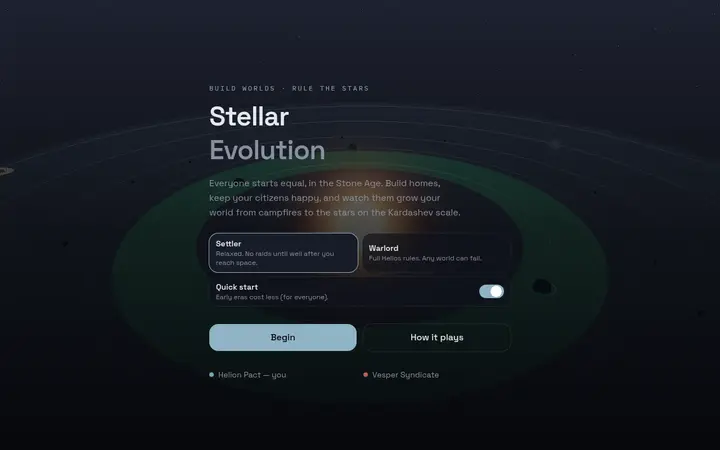
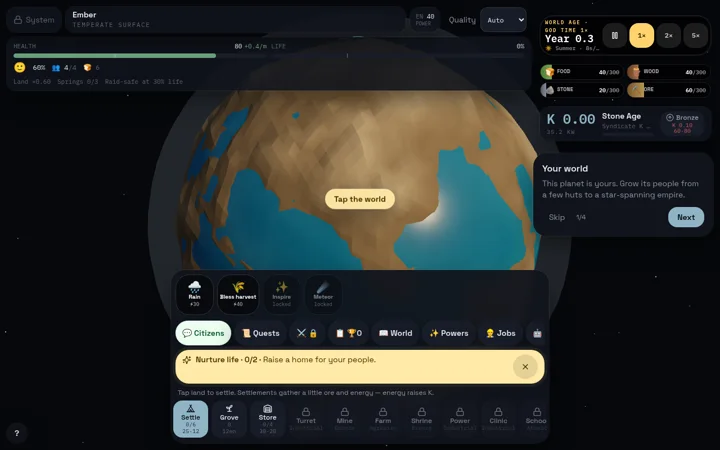
Toy Box: motion, warm night mode, and three new public cards
Add Chamber Arcade, Cluck Life, and Slide with honest live-page
previews. Recapture BEEP and Stellar, point Stellar at its dedicated
host, and keep Nabu on GitHub. Hover/tap and view transitions plus a
warmer cocoa night theme. Lockbox crypto unchanged.

diff --git a/css/toybox.css b/css/toybox.css
@@ -1,9 +1,10 @@
-:root{--bg:#fbf3ea;--bg2:#f5e6d6;--card:#fffaf5;--ink:#2b1d17;--muted:#87695a;--line:rgba(120,72,40,.13);--accent:#e3743f;--accent2:#c9506a;--live:#2f9e6a;--prog:#d98a1f;--droid:#5b7fd6;--dev:#9a8578;--shadow:0 1px 2px rgba(80,40,20,.06),0 8px 24px rgba(120,60,30,.08);--r:20px;color-scheme:light}
-[data-theme=dark]{--bg:#1a1412;--bg2:#241a16;--card:#2a201b;--ink:#f6e9df;--muted:#b49a8b;--line:rgba(255,220,190,.1);--accent:#f08a52;--accent2:#e2708a;--live:#4fc48c;--prog:#f0a940;--droid:#86a4f0;--dev:#a8968a;--shadow:0 1px 2px rgba(0,0,0,.3),0 10px 30px rgba(0,0,0,.35);color-scheme:dark}
-@media (prefers-color-scheme:dark){:root:not([data-theme=light]){--bg:#1a1412;--bg2:#241a16;--card:#2a201b;--ink:#f6e9df;--muted:#b49a8b;--line:rgba(255,220,190,.1);--accent:#f08a52;--accent2:#e2708a;--live:#4fc48c;--prog:#f0a940;--droid:#86a4f0;--dev:#a8968a;--shadow:0 1px 2px rgba(0,0,0,.3),0 10px 30px rgba(0,0,0,.35);color-scheme:dark}}
+:root{--bg:#fbf3ea;--bg2:#f5e6d6;--card:#fffaf5;--ink:#2b1d17;--muted:#87695a;--line:rgba(120,72,40,.13);--accent:#e3743f;--accent2:#c9506a;--live:#2f9e6a;--prog:#d98a1f;--droid:#5b7fd6;--dev:#9a8578;--shadow:0 1px 2px rgba(80,40,20,.06),0 8px 24px rgba(120,60,30,.08);--r:20px;--ease:cubic-bezier(.22,1,.36,1);color-scheme:light}
+[data-theme=dark]{--bg:#17110e;--bg2:#221914;--card:#2e231d;--ink:#f8eee6;--muted:#c4a898;--line:rgba(255,214,180,.12);--accent:#f29a63;--accent2:#e87d93;--live:#5dcea0;--prog:#f0a940;--droid:#86a4f0;--dev:#b39a8c;--shadow:0 1px 2px rgba(0,0,0,.35),0 14px 36px rgba(20,8,4,.5);color-scheme:dark}
+@media (prefers-color-scheme:dark){:root:not([data-theme=light]){--bg:#17110e;--bg2:#221914;--card:#2e231d;--ink:#f8eee6;--muted:#c4a898;--line:rgba(255,214,180,.12);--accent:#f29a63;--accent2:#e87d93;--live:#5dcea0;--prog:#f0a940;--droid:#86a4f0;--dev:#b39a8c;--shadow:0 1px 2px rgba(0,0,0,.35),0 14px 36px rgba(20,8,4,.5);color-scheme:dark}}
 *{box-sizing:border-box}
 html{-webkit-text-size-adjust:100%}
-body{margin:0;font:16px/1.5 ui-rounded,"SF Pro Rounded",system-ui,-apple-system,"Segoe UI",Roboto,sans-serif;color:var(--ink);background:radial-gradient(1200px 600px at 85% -10%,color-mix(in srgb,var(--accent) 16%,transparent),transparent 60%),radial-gradient(900px 500px at -10% 10%,color-mix(in srgb,var(--accent2) 10%,transparent),transparent 60%),var(--bg);min-height:100vh;transition:background-color .3s,color .3s}
+@media (prefers-reduced-motion:no-preference){@view-transition{navigation:auto}}
+body{margin:0;font:16px/1.5 ui-rounded,"SF Pro Rounded",system-ui,-apple-system,"Segoe UI",Roboto,sans-serif;color:var(--ink);background:radial-gradient(1200px 600px at 85% -10%,color-mix(in srgb,var(--accent) 16%,transparent),transparent 60%),radial-gradient(900px 500px at -10% 10%,color-mix(in srgb,var(--accent2) 10%,transparent),transparent 60%),var(--bg);min-height:100vh;transition:background-color .5s var(--ease),color .45s var(--ease),background .5s var(--ease)}
 a{color:inherit}
 .sr-only{position:absolute;width:1px;height:1px;padding:0;margin:-1px;overflow:hidden;clip:rect(0,0,0,0);white-space:nowrap;border:0}
 .skip{position:absolute;left:12px;top:-48px;z-index:20;background:var(--card);color:var(--ink);padding:10px 14px;border-radius:12px;text-decoration:none;box-shadow:var(--shadow)}
@@ -14,8 +15,9 @@ a{color:inherit}
 .top-nav{display:flex;align-items:center;flex-wrap:wrap;gap:2px}
 .top-nav a{text-decoration:none;color:var(--muted);font-size:14px;padding:8px 12px;border-radius:999px;min-height:44px;display:inline-flex;align-items:center}
 .top-nav a:hover{color:var(--ink);background:var(--line)}
-.icon-btn{appearance:none;border:1px solid var(--line);background:var(--card);color:var(--ink);width:44px;height:44px;border-radius:999px;cursor:pointer;font-size:16px;display:grid;place-items:center;transition:transform .15s;touch-action:manipulation}
-.icon-btn:active{transform:scale(.92)}
+.icon-btn{appearance:none;border:1px solid var(--line);background:var(--card);color:var(--ink);width:44px;height:44px;border-radius:999px;cursor:pointer;font-size:16px;display:grid;place-items:center;transition:transform .22s var(--ease),background-color .35s,border-color .35s,color .35s;touch-action:manipulation}
+.icon-btn:active{transform:scale(.9)}
+[data-theme-toggle] .sun,[data-theme-toggle] .moon{transition:opacity .3s var(--ease),transform .35s var(--ease)}
 .moon{display:none}[data-dark] .sun{display:none}[data-dark] .moon{display:inline}
 @media (min-width:640px){.top{grid-template-columns:1fr auto auto}.top-nav{justify-self:end}.icon-btn{grid-column:3;grid-row:1}}
 @media (max-width:639px){.top-nav{grid-column:1/-1}.icon-btn{grid-column:2;grid-row:1}}
@@ -29,21 +31,24 @@ h1{font-size:clamp(30px,6vw,48px);line-height:1.08;margin:0 0 12px;letter-spacin
 .chips{position:sticky;top:0;z-index:5;display:flex;gap:8px;overflow-x:auto;padding:10px 0 14px;margin:0 -4px 6px;padding-left:4px;background:color-mix(in srgb,var(--bg) 86%,transparent);backdrop-filter:blur(14px) saturate(1.1);-webkit-backdrop-filter:blur(14px) saturate(1.1);scrollbar-width:none}
 .chips::-webkit-scrollbar{display:none}
 @media (max-width:540px){.chips{-webkit-mask-image:linear-gradient(90deg,transparent,#000 12px,#000 calc(100% - 28px),transparent);mask-image:linear-gradient(90deg,transparent,#000 12px,#000 calc(100% - 28px),transparent);padding-right:28px}.chip{padding:8px 13px;font-size:13.5px}}
-.chip{appearance:none;border:1px solid var(--line);background:var(--card);color:var(--ink);padding:9px 16px;border-radius:999px;font:inherit;font-size:14px;font-weight:600;cursor:pointer;white-space:nowrap;min-height:44px;transition:background .2s,color .2s,transform .15s,box-shadow .2s;touch-action:manipulation}
-.chip:active{transform:scale(.95)}
+.chip{appearance:none;border:1px solid var(--line);background:var(--card);color:var(--ink);padding:9px 16px;border-radius:999px;font:inherit;font-size:14px;font-weight:600;cursor:pointer;white-space:nowrap;min-height:44px;transition:background .28s var(--ease),color .28s var(--ease),transform .2s var(--ease),box-shadow .28s,border-color .28s;touch-action:manipulation}
+.chip:active{transform:scale(.94)}
 .chip[aria-pressed=true]{background:var(--ink);color:var(--bg);border-color:var(--ink)}
 .chip-lock{margin-left:auto}
 .grid{display:grid;grid-template-columns:repeat(auto-fill,minmax(250px,1fr));gap:16px}
 @media (max-width:720px){.grid{grid-template-columns:1fr 1fr;gap:12px}}
 @media (max-width:400px){.grid{grid-template-columns:1fr;gap:12px}}
-.card{appearance:none;text-align:left;font:inherit;color:inherit;border:1px solid var(--line);background:var(--card);border-radius:var(--r);overflow:hidden;padding:0;cursor:pointer;box-shadow:var(--shadow);transition:transform .32s cubic-bezier(.22,.82,.2,1),box-shadow .32s cubic-bezier(.22,.82,.2,1),border-color .25s;display:flex;flex-direction:column;animation:pop .5s cubic-bezier(.22,.82,.2,1) both;animation-delay:calc(min(var(--i,0),8)*20ms);content-visibility:auto;contain-intrinsic-size:0 320px;touch-action:manipulation}
-.card:active{transform:scale(.978)}
+.card{appearance:none;text-align:left;font:inherit;color:inherit;border:1px solid var(--line);background:var(--card);border-radius:var(--r);overflow:hidden;padding:0;cursor:pointer;box-shadow:var(--shadow);transition:transform .38s var(--ease),box-shadow .38s var(--ease),border-color .3s var(--ease),background-color .45s;display:flex;flex-direction:column;animation:pop .55s var(--ease) both;animation-delay:calc(min(var(--i,0),8)*20ms);content-visibility:auto;contain-intrinsic-size:0 320px;touch-action:manipulation;view-transition-name:var(--vt,none)}
+.card:active{transform:translateY(1px) scale(.97);transition-duration:.12s}
 .card:focus-visible,.chip:focus-visible,.btn:focus-visible,.icon-btn:focus-visible,.top-nav a:focus-visible,.foot-links a:focus-visible{outline:3px solid var(--accent);outline-offset:2px}
-@media (hover:hover) and (pointer:fine){.card:hover,.card:focus-visible{transform:translateY(-5px);border-color:color-mix(in srgb,var(--accent) 28%,var(--line));box-shadow:0 10px 32px color-mix(in srgb,var(--accent) 16%,transparent),var(--shadow)}.card:hover .thumb img,.card:focus-visible .thumb img{transform:scale(1.05)}}
-@keyframes pop{from{opacity:0;transform:translateY(12px) scale(.985)}}
-.thumb{aspect-ratio:16/10;background:linear-gradient(145deg,#f6c38b,#e98b5c 52%,#b8546a);position:relative;overflow:hidden}
+@media (hover:hover) and (pointer:fine){.card:hover{transform:translateY(-6px) scale(1.012);border-color:color-mix(in srgb,var(--accent) 32%,var(--line));box-shadow:0 14px 36px color-mix(in srgb,var(--accent) 18%,transparent),var(--shadow)}.card:hover .thumb img{transform:scale(1.055)}.card:focus-visible{transform:translateY(-4px);border-color:color-mix(in srgb,var(--accent) 32%,var(--line))}}
+@keyframes pop{from{opacity:0;transform:translateY(14px) scale(.98)}}
+.thumb{aspect-ratio:16/10;background:var(--thumb,linear-gradient(145deg,#f6c38b,#e98b5c 52%,#b8546a));position:relative;overflow:hidden}
+.card[data-tint="1"]{--thumb:linear-gradient(145deg,#f0b87a,#d97858 55%,#a85a72)}
+.card[data-tint="2"]{--thumb:linear-gradient(145deg,#efc49a,#e08a62 55%,#c46b58)}
+.card[data-tint="3"]{--thumb:linear-gradient(145deg,#e8b894,#d36d6d 55%,#8f5a78)}
 .thumb::after{content:"";position:absolute;inset:0;background:linear-gradient(180deg,transparent 62%,rgba(43,29,23,.18));pointer-events:none}
-.thumb img{width:100%;height:100%;object-fit:cover;object-position:top;display:block;opacity:0;transition:transform .55s cubic-bezier(.22,.82,.2,1),opacity .4s ease}
+.thumb img{width:100%;height:100%;object-fit:cover;object-position:top;display:block;opacity:0;transition:transform .6s var(--ease),opacity .4s ease}
 .thumb img.ready{opacity:1}
 .thumb-empty{display:flex;flex-direction:column;align-items:center;justify-content:center;gap:6px;color:rgba(255,255,255,.92)}
 .thumb-mark{font-size:22px;font-weight:750;letter-spacing:.08em;line-height:1}
@@ -94,4 +99,5 @@ h1{font-size:clamp(30px,6vw,48px);line-height:1.08;margin:0 0 12px;letter-spacin
 .foot-links{display:flex;flex-wrap:wrap;gap:4px 14px}
 .foot-links a{color:var(--muted);text-decoration:none;min-height:40px;display:inline-flex;align-items:center}
 .foot-links a:hover{color:var(--ink)}
-@media (prefers-reduced-motion:reduce){*,*::before,*::after{animation:none!important;transition:none!important}.thumb img,.thumb img.ready{opacity:1}}
+::view-transition-old(root),::view-transition-new(root){animation-duration:.38s;animation-timing-function:var(--ease)}
+@media (prefers-reduced-motion:reduce){*,*::before,*::after{animation:none!important;transition:none!important}.thumb img,.thumb img.ready{opacity:1}::view-transition-group(*),::view-transition-old(*),::view-transition-new(*){animation:none!important}}

diff --git a/js/toybox.js b/js/toybox.js
@@ -17,14 +17,22 @@
       b.setAttribute("aria-pressed", String(dark));
     }
     const meta = $("[data-theme-color]");
-    if (meta) meta.setAttribute("content", dark ? "#1a1412" : "#fbf3ea");
+    if (meta) meta.setAttribute("content", dark ? "#17110e" : "#fbf3ea");
+  };
+  const reduceMotion = () => matchMedia("(prefers-reduced-motion: reduce)").matches;
+  const withTransition = (fn) => {
+    if (!reduceMotion() && document.startViewTransition) return document.startViewTransition(fn);
+    fn();
   };
   syncTheme();
   mq.addEventListener?.("change", syncTheme);
   $("[data-theme-toggle]")?.addEventListener("click", () => {
-    root.dataset.theme = isDark() ? "light" : "dark";
-    try { localStorage.setItem("toybox-theme", root.dataset.theme); } catch {}
-    syncTheme();
+    const flip = () => {
+      root.dataset.theme = isDark() ? "light" : "dark";
+      try { localStorage.setItem("toybox-theme", root.dataset.theme); } catch {}
+      syncTheme();
+    };
+    withTransition(flip);
   });
 
   const initials = (n) => n.replace(/[^A-Za-z0-9 ]/g, "").split(/\s+/).filter(Boolean).slice(0, 2).map((w) => w[0]).join("").toUpperCase();
@@ -67,13 +75,15 @@
   sheet?.addEventListener("click", (e) => { if (e.target === sheet) sheet.close(); });
   sheet?.addEventListener("close", () => { lastCard?.focus?.({ preventScroll: true }); lastCard = null; });
 
+  const tintOf = (id) => [...String(id)].reduce((n, c) => n + c.charCodeAt(0), 0) % 4;
   const cardHtml = (p, i) => {
     const eager = i < 6;
     const img = p.image
       ? `<img src="${esc(p.image)}" alt="" ${eager ? `loading="eager" fetchpriority="${i < 2 ? "high" : "low"}"` : `loading="lazy"`} decoding="async" width="720" height="450" sizes="(max-width:400px) 100vw,(max-width:720px) 50vw,280px">`
       : `<div class="thumb-empty thumb"><span class="thumb-mark">${esc(initials(p.name))}</span><span class="thumb-soon">Soon</span></div>`;
+    const vt = `card-${String(p.id || i).replace(/[^a-z0-9-]/gi, "")}`;
     return `
-    <button class="card" type="button" style="--i:${Math.min(i, 8)}" data-idx="${i}" aria-label="${esc(p.name)}, ${esc(p.status)}. Open preview">
+    <button class="card" type="button" data-tint="${tintOf(p.id || i)}" style="--i:${Math.min(i, 8)};--vt:${vt}" data-idx="${i}" aria-label="${esc(p.name)}, ${esc(p.status)}. Open preview">
       <div class="thumb">${img}
         <span class="badge ${BADGE[p.status] || ""}">${esc(p.status)}</span></div>
       <div class="card-body"><h3>${esc(p.name)}</h3>${p.lastUpdated ? `<span class="upd${isFresh(p.lastUpdated) ? " fresh" : ""}">Updated ${esc(fmtDate(p.lastUpdated))}</span>` : ""}<p>${esc(p.description)}</p></div>
@@ -107,9 +117,10 @@
 
   const grid = $("[data-grid]");
   let all = [];
+  let painted = false;
   const byRecent = (a, b) => String(b.lastUpdated).localeCompare(String(a.lastUpdated));
   const labelFor = (f, n) => f === "all" ? `${n} projects` : f === "recent" ? `${n} recently updated` : `${n} ${f === "game" ? "games" : f === "site" ? "sites" : "tools"}`;
-  const show = (f) => {
+  const paint = (f) => {
     const list = f === "all" ? all : f === "recent" ? [...all].sort(byRecent) : all.filter((p) => p.category === f);
     renderInto(grid, list);
     const status = $("[data-filter-status]");
@@ -124,12 +135,16 @@
       }
     }
   };
+  const show = (f) => {
+    if (painted) withTransition(() => paint(f));
+    else { paint(f); painted = true; }
+  };
   document.querySelectorAll("[data-filter]").forEach((b) => b.addEventListener("click", () => {
     document.querySelectorAll("[data-filter]").forEach((x) => x.setAttribute("aria-pressed", String(x === b)));
     show(b.dataset.filter);
   }));
   const jumpLockbox = () => {
-    $("#lockbox")?.scrollIntoView({ behavior: matchMedia("(prefers-reduced-motion: reduce)").matches ? "auto" : "smooth" });
+    $("#lockbox")?.scrollIntoView({ behavior: reduceMotion() ? "auto" : "smooth" });
     setTimeout(() => $("#lock-pass")?.focus({ preventScroll: true }), 400);
   };
   $("[data-jump-lockbox]")?.addEventListener("click", jumpLockbox);

diff --git a/index.html b/index.html
@@ -15,13 +15,13 @@
   <meta name="twitter:card" content="summary_large_image">
   <link rel="icon" href="/assets/favicon.svg" type="image/svg+xml">
   <link rel="manifest" href="/site.webmanifest">
-  <link rel="preload" href="/css/toybox.css?v=8" as="style">
-  <link rel="preload" href="/js/toybox.js?v=9" as="script">
+  <link rel="preload" href="/css/toybox.css?v=10" as="style">
+  <link rel="preload" href="/js/toybox.js?v=10" as="script">
   <link rel="preload" href="/data/projects.json" as="fetch" crossorigin>
   <link rel="preload" href="/assets/previews/actually-worth-it.webp" as="image">
   <link rel="preload" href="/assets/previews/sprain-games.webp" as="image">
   <link rel="preload" href="/assets/previews/beep.webp" as="image">
-  <link rel="stylesheet" href="/css/toybox.css?v=8">
+  <link rel="stylesheet" href="/css/toybox.css?v=10">
   <script>
     try {
       var t = localStorage.getItem("toybox-theme");
@@ -29,7 +29,7 @@
       var dark = t === "dark" || (!t && window.matchMedia && matchMedia("(prefers-color-scheme: dark)").matches);
       if (dark) document.documentElement.setAttribute("data-dark", "");
       var m = document.querySelector("[data-theme-color]");
-      if (m) m.setAttribute("content", dark ? "#1a1412" : "#fbf3ea");
+      if (m) m.setAttribute("content", dark ? "#17110e" : "#fbf3ea");
     } catch (e) {}
   </script>
 </head>
@@ -100,7 +100,7 @@
     </div>
   </dialog>
 
-  <script src="/js/toybox.js?v=9" defer></script>
+  <script src="/js/toybox.js?v=10" defer></script>
   <script src="/js/private-vault.js?v=6" defer></script>
 </body>
 </html>

diff --git a/css/site.css b/css/site.css
@@ -1690,6 +1690,12 @@ html[data-theme="dark"] .toy-link {
   }
 }
 
+@media (prefers-reduced-motion: no-preference) {
+  @view-transition {
+    navigation: auto;
+  }
+}
+
 @media (prefers-reduced-motion: reduce) {
   html {
     scroll-behavior: auto;

diff --git a/CLAUDE_NEXT.md b/CLAUDE_NEXT.md
@@ -12,7 +12,7 @@ A soft, warm project-card hub. The homepage (`index.html` + `css/toybox.css` + `
 
 The older freelance pages (`/work/`, `/about/`, `/contact/`, `css/site.css`) still exist. Do not restyle them unless a Toy Box change breaks a shared link. Keep the homepage as the pretty shelf.
 
-## What the last two overnight passes already did
+## What the last three overnight passes already did
 
 Do not redo this work. Build on it.
 
@@ -25,39 +25,46 @@ Do not redo this work. Build on it.
 - Hash shortcuts: `#games`, `#sites`, `#tools`, `#recent`, `#lockbox`.
 - Lockbox labels / `aria-invalid` only. **Crypto is unchanged.**
 
-### Pass 2 (cards / copy / speed) — stacked on the same PR
+### Pass 2 (cards / copy / speed)
 
 - Card motion: capped stagger (first 8), warmer hover lift + border, image zoom, light fade on the thumb.
 - In-development thumbs are initials + a quiet **Soon** label, not giant type.
-- Preview sheet: grabber on phones, stronger backdrop blur, slightly warmer radius.
-- Recaptured **BEEP** (was almost black; now the pad) and **RDF** (roster with Kit / Ren / Bayan / Jae-Min). Other 17 previews were already honest 720×450 shots of the live pages. Nabu and Launch Kit still show their GitHub repos because that is the `liveUrl`.
-- Copy fixes from the live sites: GRINDEX is Roblox codes (not “on the web”), Respawn HQ is a news desk (not “ops”), ZONEZ is community/chat (not “zone puzzles”), Bando Games / SWEET-D / BEEP match what the pages actually say. Dates were not invented except BEEP + RDF `lastUpdated` to today so the new webps bust the 7-day asset cache.
-- Speed: preload CSS, JS, `projects.json`, and the first three previews; `sizes` on card images; `content-visibility` with a taller intrinsic size.
-- Cache-bust is `?v=8` on toybox CSS and `?v=9` on `toybox.js`.
+- Recaptured **BEEP** and **RDF**. Copy fixes from live sites (GRINDEX, Respawn HQ, ZONEZ, Bando Games, SWEET-D, BEEP).
+- Speed: preload CSS/JS/`projects.json`/first three previews; `sizes` on card images; `content-visibility`.
+
+### Pass 3 (motion / night / newer public cards) — stacked on the same PR
+
+- Motion: stronger hover (`translateY(-6px) scale(1.012)`), tap (`scale(.97)`), View Transitions on theme flip and filter paint, `@view-transition { navigation: auto }` on Toy Box and the older pages. `prefers-reduced-motion` still wins.
+- Night mode is warmer cocoa (`#17110e` paper, cream ink). Theme-color meta follows it.
+- Soon cards get a quiet peach/rose tint (`data-tint` 0–3) so ten empties do not look identical. No fake screenshots.
+- Recaptured **BEEP** (pad crop) and **Stellar Evolution** (live world after Begin). Stellar's public URL is now `stellar.testdasite.com` (same playable page, dedicated host).
+- Added public cards that have a working live page: **Chamber Arcade** (`chamber-arcade.pages.dev`), **Cluck Life** (`cluck-life.pages.dev`), **Slide** (`kings-slide.pages.dev`). Honest 720×450 webps from those pages.
+- Visited every older `liveUrl`. All 19 previous public links still 200. Nabu stays GitHub — the tablet is local, no public host. Launch Kit stays GitHub.
+- **Did not add** Iron Command (going private). **Did not add** any `workers.dev` host. **Did not invent** links for E-SEKAI, Terminal Trader, NOMI, Learn Spanish / Habla, Miami AI Weather, or Porch Market — no working public page found that is actually those products. `*.pages.dev` names that belong to other people were not used.
+- Cache-bust is `?v=10` on toybox CSS and JS.
 
 ## Hard rules (do not break)
 
 - **Do not remove any project** from `data/projects.json`.
 - **Do not change Lockbox protection.** Leave `js/private-vault.js` decrypt (`PBKDF2` + `AES-GCM`), `sessionStorage` key, `data/private.enc.json`, and the encrypt scripts alone unless you are only touching labels / focus / layout around the form.
 - **Never commit** `data/private.json`, the vault password, the numeric PIN, or King's legal name. Public copy is **T0PK1DK** / **King's Toy Box** only. `npm test` scans for forbidden name fragments.
-- **Do not invent URLs.** If a link is dead and you cannot confirm a replacement, leave `liveUrl` as-is or set it `null` and drop status to `In development` — never guess a host.
+- **Do not invent URLs.** If a link is dead and you cannot confirm a replacement, leave `liveUrl` as-is or set it `null` and drop status to `In development` — never guess a host. Do not list Iron Command. Do not list `workers.dev` links.
 - Additive only. No framework, no rewrite of the card renderer, no new build step. `npm test` / `npm run build` must stay green (`scripts/validate.mjs`).
 - Bump `?v=` on `/css/toybox.css` and `/js/toybox.js` (and lockbox JS if you touch it) when you edit them. Cache is 7 days. Card images cache-bust with `lastUpdated`.
 - Keep the feeling: **soft, warm, uncluttered**, cream paper in light mode, cocoa dark mode. No neon, no dense dashboards, no stock-SaaS chrome.
 
 ## Design brief for this round
 
-The shelf is cleaner. What is still open is **preview honesty** and a little more toy-box, a little less screenshot grid.
+The shelf now has the newer public games. What is still open is **missing live hosts** and a little more toy-box.
 
 Ideas, pick a few — do not do all of them:
 
-1. **BEEP is a dark UI.** The pad crop is readable; the rest of the product is still near-black. A tighter crop of just the pad card (or a lit theme if the site has one) would help the shelf.
-2. **GitHub cards.** Nabu and Launch Kit show github.com chrome. If either gains a Pages demo, recapture that. Do not invent a host.
-3. **Stellar Evolution / RDF / ZONEZ** are menu or login shots. Recapture gameplay or an inside view only if you can click there and the URL stays public.
-4. **In-development empty state.** Initials + Soon is quieter than before. A tiny per-card tint (still the same peach/rose family) would stop ten cards looking identical. No fake screenshots.
-5. **Updates strip.** Five honest `updateNote`s, newest first. Do not invent dates. Many cards still say `2026-06-01`.
-6. **Type.** System rounded is fine. No render-blocking Google Fonts on the homepage.
-7. **Motion.** Stagger + lift is enough. Respect `prefers-reduced-motion`. No particles.
+1. **Find live pages, do not invent them.** If Terminal Trader, NOMI, Habla / Learn Spanish, Miami AI Weather, E-SEKAI, or Porch Market get a real public host, add or update the card and recapture a screenshot. Habla's README still points at a GitHub Pages URL that 404s.
+2. **GitHub cards.** Nabu and Launch Kit still show github.com chrome. Recapture only if a Pages demo ships.
+3. **Slide** is a dark map HUD. If a brighter route view is one tap away and stays public, recapture that.
+4. **Updates strip.** Five honest `updateNote`s, newest first. Do not invent dates. Many cards still say `2026-06-01`.
+5. **Type.** System rounded is fine. No render-blocking Google Fonts on the homepage.
+6. **Motion is enough.** Hover, tap, and view transitions already ship. Respect `prefers-reduced-motion`. No particles.
 
 ## Done means
 
@@ -66,4 +73,4 @@ Ideas, pick a few — do not do all of them:
 - Push to the open PR if one is already waiting (do not open a second PR for the same shelf pass).
 - Update this file with what you shipped and a fresh ready-to-paste prompt for the round after you.
 
-If you only have time for one thing: **tighter BEEP crop + a little color variety on Soon cards.** Leave the lockbox locked.
+If you only have time for one thing: **wire a live URL the moment one of the missing public projects actually ships.** Leave the lockbox locked.
